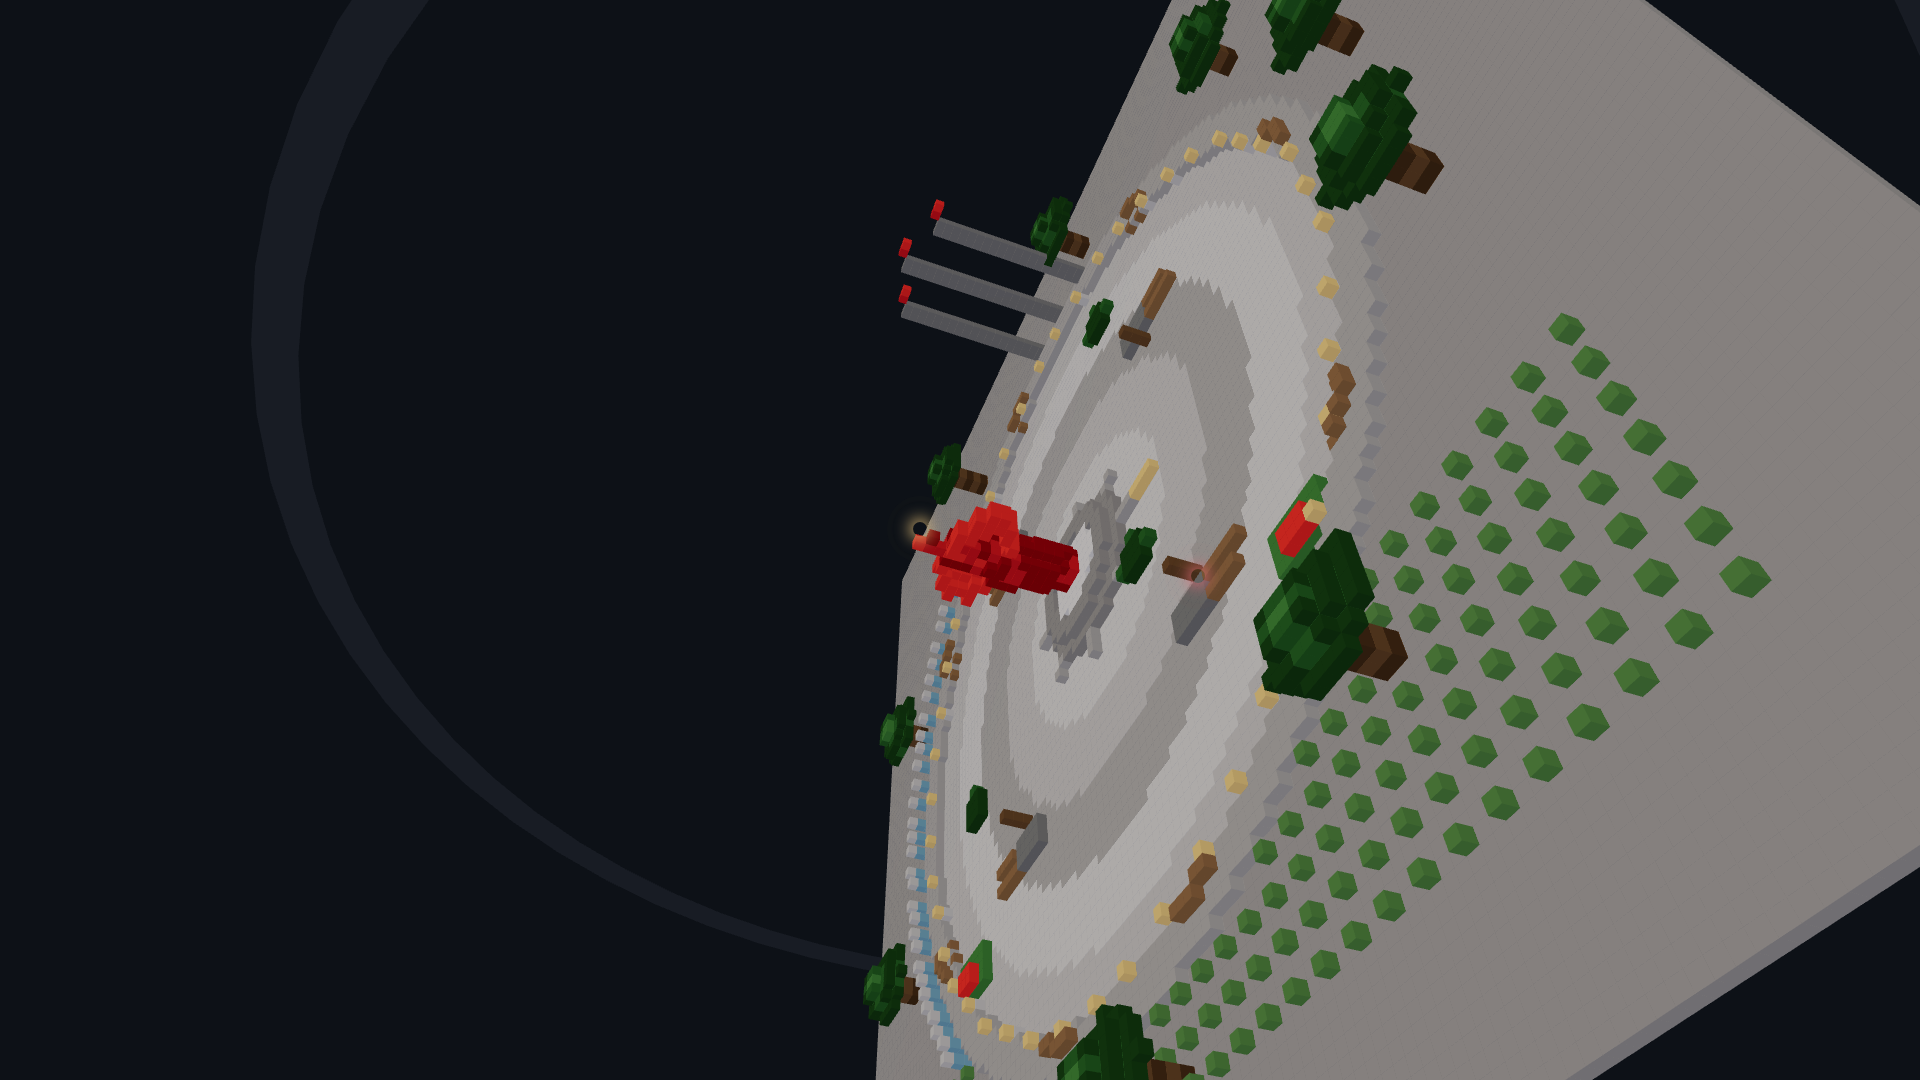
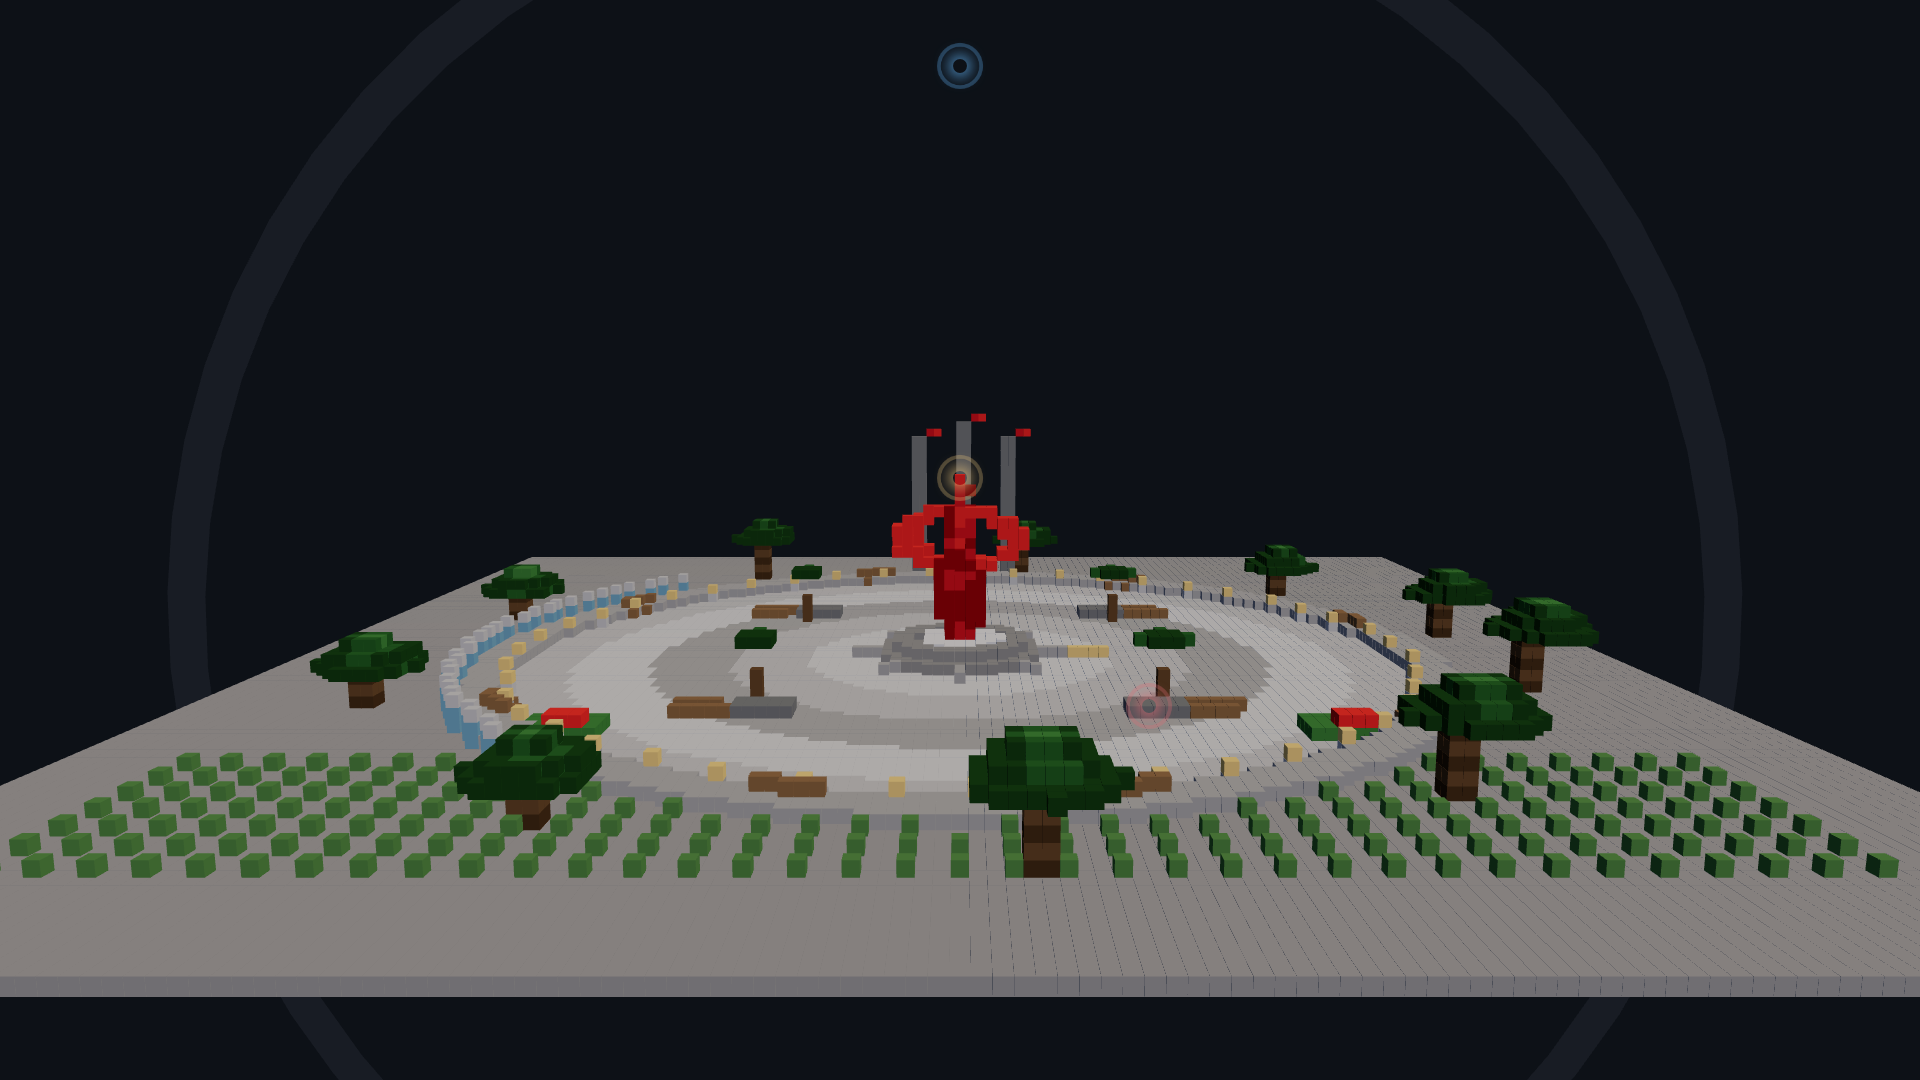
Fix camera angles: use front-facing presets for all landmarks
Switch from custom 3/4 angles to the built-in front camera presets.
All cameras now aligned on X-axis for straight-on building views.

diff --git a/scripts/screenshots.py b/scripts/screenshots.py
@@ -19,104 +19,91 @@ SCREENSHOTS_DIR = ROOT / "output" / "screenshots"
 # Angles chosen for best visual presentation — lower/side angles where
 # buildings look 3D, higher angles for layouts (track, halls).
 SHOTS = [
-    # ── Hero shots ──
+    # Using the viewer's built-in "front" camera presets —
+    # straight-on, eye-level views of each building's main facade.
     {
         "name": "01_plaza_sundial",
         "landmark": "plaza",
         "label": "Red Bird Plaza",
-        # Mid-low angle from SE: shows sundial height + academic arc facade behind
-        "cam_pos": [35, -45, 58],
-        "cam_tgt": [0, -88, 45],
+        "cam_pos": [0, -30, 52],    # front: looking north from south
+        "cam_tgt": [0, -88, 44],
     },
     {
         "name": "02_shaw_auditorium",
         "landmark": "shaw",
         "label": "Shaw Auditorium",
-        # 3/4 angle from SW, lower elevation to see 3-ring stacking
-        "cam_pos": [160, -140, 35],
-        "cam_tgt": [120, -190, 12],
+        "cam_pos": [120, -140, 25], # front: looking south from north
+        "cam_tgt": [120, -190, 10],
     },
     {
         "name": "03_academic_arc",
         "landmark": "academic",
         "label": "Academic Arc",
-        # From the south, eye-level looking north at the crescent facade
-        "cam_pos": [0, -55, 56],
+        "cam_pos": [0, -50, 56],    # front: looking north at crescent facade
         "cam_tgt": [0, 0, 56],
     },
     {
         "name": "04_atrium",
         "landmark": "atrium",
         "label": "Jockey Club Atrium",
-        # Mid angle from SE to show the glass skylight + grand entrance
-        "cam_pos": [20, -60, 62],
-        "cam_tgt": [0, -38, 50],
+        "cam_pos": [0, -95, 50],    # front: looking north at grand entrance
+        "cam_tgt": [0, -38, 48],
     },
-
-    # ── Supporting landmarks ──
     {
         "name": "05_north_gate",
         "landmark": "gate",
         "label": "North Gate",
-        # Lower angle from south looking north at pillars + roundabout
-        "cam_pos": [30, 85, 50],
+        "cam_pos": [0, 100, 48],    # front: looking south at pillars
         "cam_tgt": [0, 60, 42],
     },
     {
         "name": "06_library",
         "landmark": "library",
         "label": "University Library",
-        # 3/4 angle from SE, slightly above
-        "cam_pos": [80, -30, 72],
+        "cam_pos": [40, -60, 52],   # front: looking north at library
         "cam_tgt": [40, 10, 48],
     },
     {
         "name": "07_lsk_business",
         "landmark": "lsk",
         "label": "LSK Business Building",
-        # Lower angle from SW to show building volume
-        "cam_pos": [-20, -80, 60],
+        "cam_pos": [-50, -20, 52],  # front: looking south at LSK
         "cam_tgt": [-50, -50, 44],
     },
     {
         "name": "08_student_halls",
         "landmark": "halls",
         "label": "Student Halls",
-        # High angle from SE to show terraced towers cascading down
-        "cam_pos": [100, -70, 60],
+        "cam_pos": [65, -50, 40],   # front: looking south at residence towers
         "cam_tgt": [65, -135, 20],
     },
     {
         "name": "09_track_field",
         "landmark": "track",
         "label": "Sports Track & Field",
-        # High angle to show full oval + soccer field
-        "cam_pos": [95, -75, 25],
+        "cam_pos": [85, -220, 15],  # front: looking north at track
         "cam_tgt": [85, -155, 2],
     },
     {
         "name": "10_pool",
         "landmark": "pool",
         "label": "Swimming Pool",
-        # Above slightly to show pool lanes + diving well
-        "cam_pos": [100, -110, 22],
+        "cam_pos": [85, -110, 16],  # front: looking south at pool
         "cam_tgt": [85, -138, 8],
     },
     {
         "name": "11_chinese_garden",
         "landmark": "garden",
         "label": "Chinese Garden",
-        # Close-up, lower angle to show pavilion + pond + moon gate
-        "cam_pos": [-40, 55, 42],
-        "cam_tgt": [-65, 35, 38],
+        "cam_pos": [-65, 60, 46],   # front: looking north at pavilion
+        "cam_tgt": [-65, 35, 40],
     },
     {
         "name": "12_tianyi_spring",
         "landmark": "spring",
         "label": "Tianyi Spring",
-        # Close-up of the fountain
-        "cam_pos": [10, -45, 40],
-        "cam_tgt": [0, -55, 36],
+        "cam_pos": [0, -70, 42],    # front: looking north at fountain
+        "cam_tgt": [0, -55, 38],
     },
 ]
 
